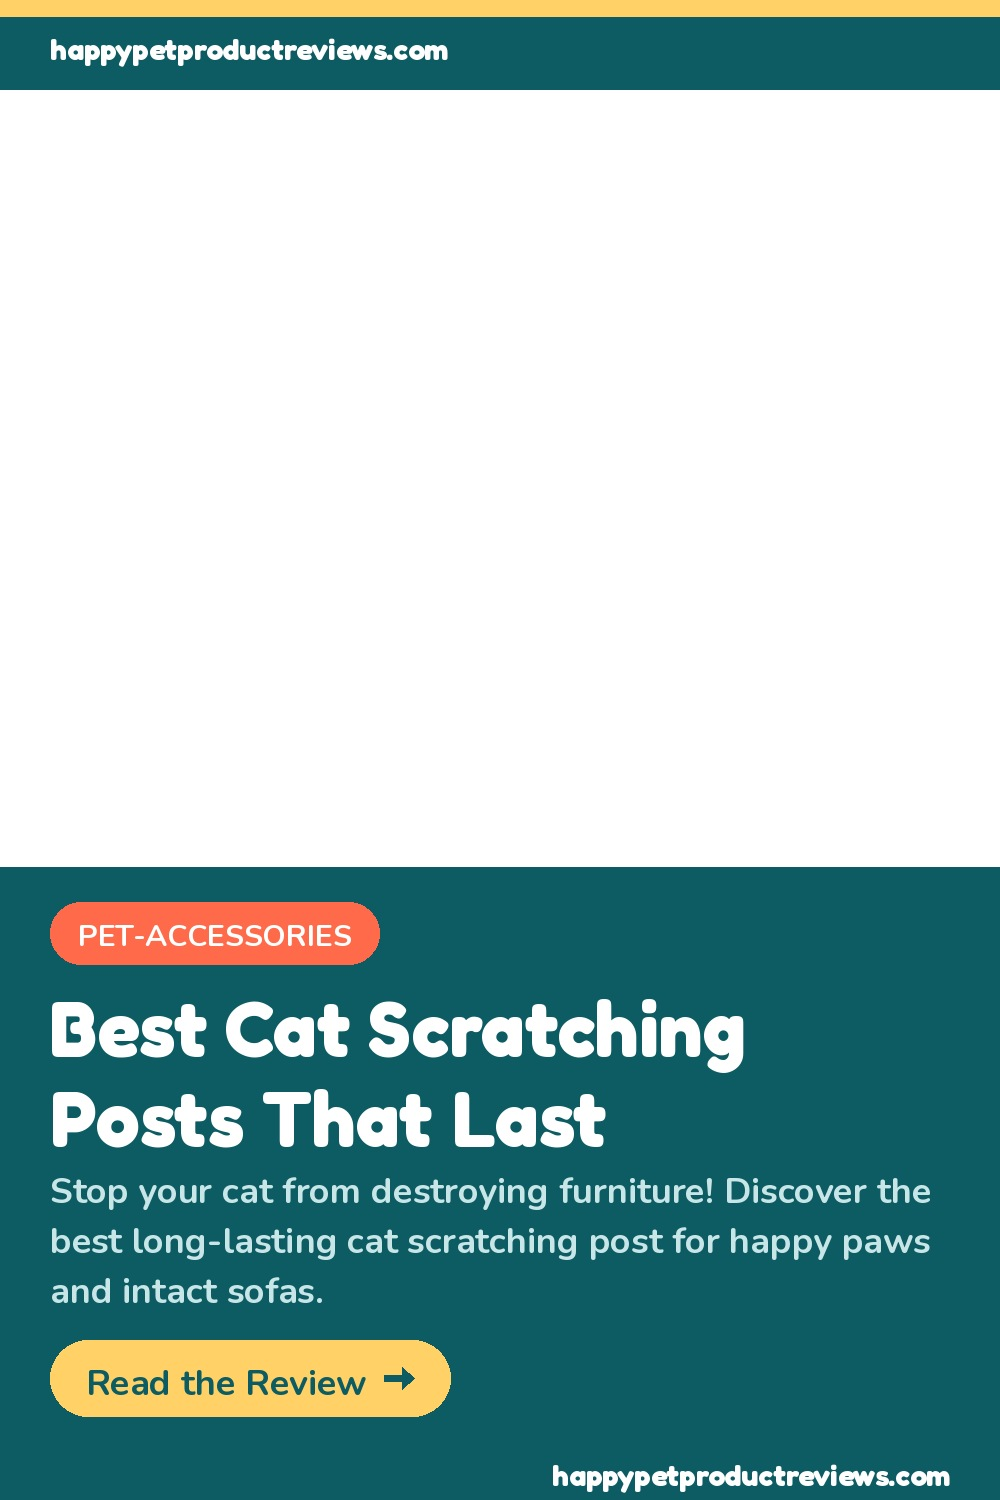
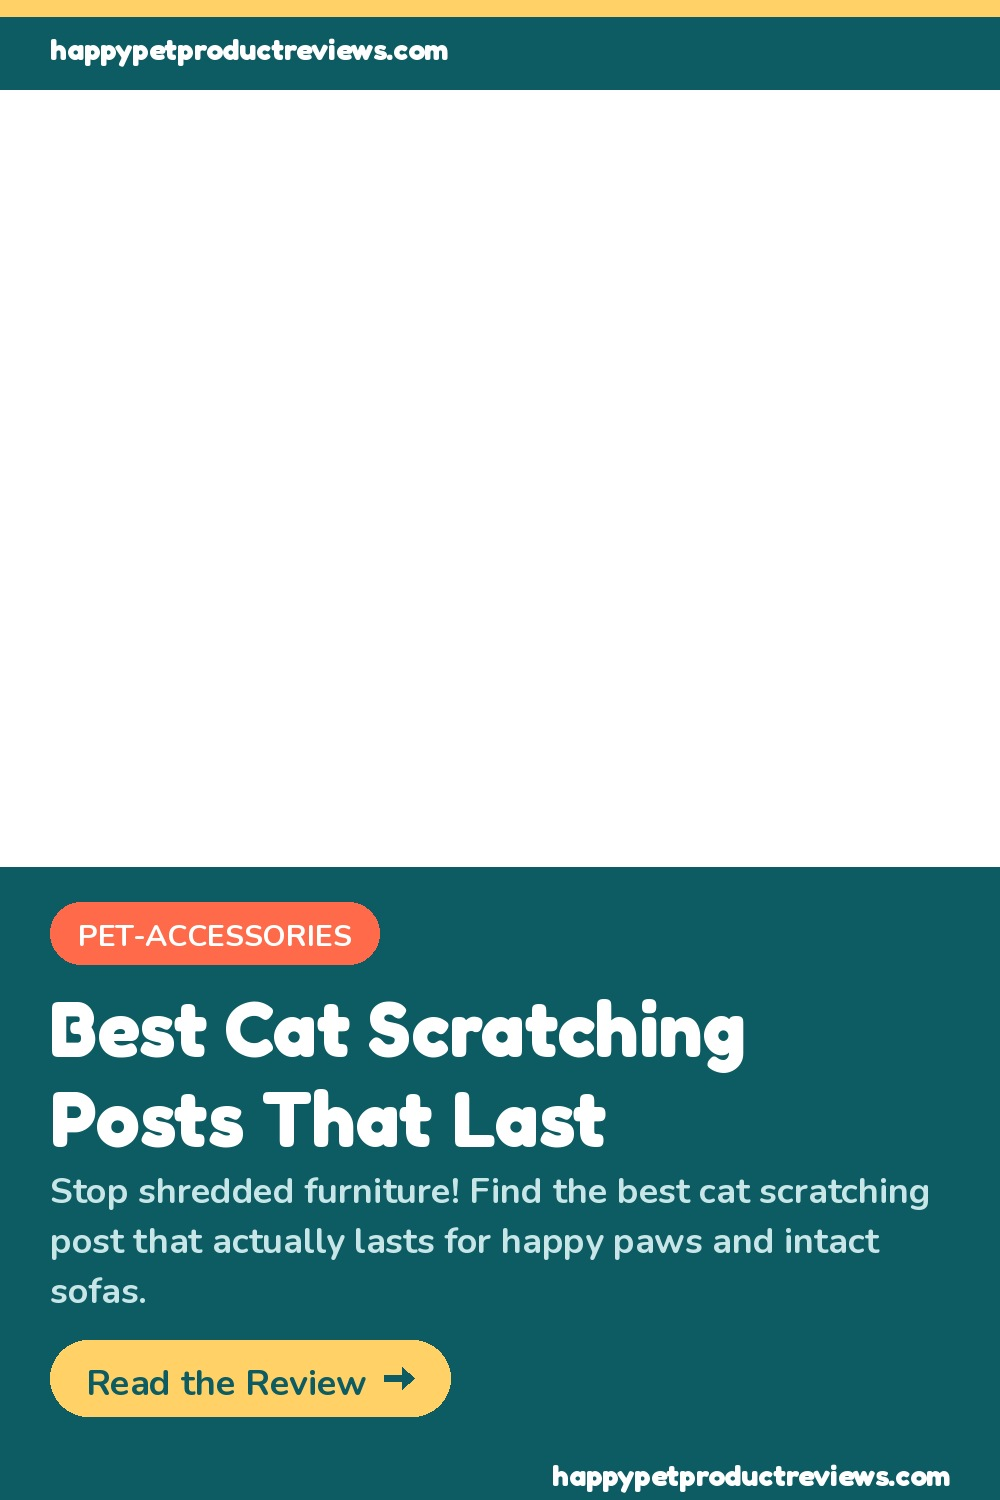
auto: add 1 articles 2026-04-06

Changed region(s): [[0.062, 0.7667, 0.93, 0.8893]]

diff --git a/_posts/2026-04-06-best-cat-scratching-posts.md b/_posts/2026-04-06-best-cat-scratching-posts.md
@@ -1,0 +1,69 @@
+---
+layout: post
+title: "Best Cat Scratching Posts That Last"
+date: 2026-04-06
+categories: [pet-accessories]
+species: cat
+tags: [cat scratching post]
+description: "Stop shredded furniture! Find the best cat scratching post that actually lasts for happy paws and intact sofas."
+affiliate_url: "https://amzn.to/4dME6wX"
+---
+
+
+# Best Cat Scratching Posts That Last
+
+We've all been there, haven't we? You come home, eager to relax, only to find another tell-tale shred mark on your favorite armchair. Or perhaps a fresh tear in the side of your brand-new couch. Your beloved feline friend, purring innocently, looks up at you as if to say, "What's the big deal?" The big deal, of course, is your increasingly tattered upholstery! You've tried everything – cardboard scratchers that disintegrate in a week, carpeted posts that they ignore, or flimsy towers that wobble precariously and send your cat scattering. It's frustrating, expensive, and leaves you wondering if your home is destined to become a feline-decorated disaster zone.
+
+As pet owners ourselves, we at Happy Pet Product Reviews understand this struggle deeply. We know that a good cat scratching post isn't just a luxury; it's an essential tool for your cat's health, happiness, and for preserving your sanity (and your furniture!). Cats need to scratch to shed old claw sheaths, mark their territory, and stretch their muscles. Providing an appropriate outlet is crucial. That's why we're constantly on the hunt for products that genuinely stand up to the test – especially when it comes to durability and effectiveness. After countless trials and endless research, we've found a true champion in the world of vertical scratchers: the [SmartCat Ultimate Scratching Post](https://amzn.to/4dME6wX). This isn't just another post; it's a long-term solution designed to keep both you and your cat purr-fectly content.
+
+## Product Overview: [SmartCat Ultimate Scratching Post](https://amzn.to/4dME6wX)
+
+The [SmartCat Ultimate Scratching Post](https://amzn.to/4dME6wX) is precisely what its name suggests: an ultimate solution for your cat's scratching needs. It's a robust, tall, and exceptionally stable vertical cat scratching post designed to mimic a tree trunk, which is what cats naturally prefer to scratch in the wild. Unlike many flimsy alternatives that barely reach a cat's shoulder, this post stands at an impressive 32 inches tall, allowing even the largest felines to get a full, satisfying stretch while they scratch.
+
+This product is ideal for virtually any cat owner, but it particularly shines for those with large breeds like Maine Coons or Ragdolls, or households with multiple energetic cats who can quickly decimate lesser scratchers. It's also a godsend for owners whose cats have developed a penchant for scratching furniture, as its natural sisal surface and sturdy design make it incredibly appealing. The post features a wide, heavy base measuring 16 x 16 inches, which ensures maximum stability, preventing any wobbling or tipping that might deter a cautious cat. The scratching surface itself is made from durable woven sisal, a natural fiber that offers a satisfying texture for claws and is significantly more resilient than carpet or wrapped rope. If you're tired of replacing cheap cat scratching posts every few months, the [SmartCat Ultimate Scratching Post](https://amzn.to/4dME6wX) is engineered to be a one-time investment that pays dividends for years.
+
+## What We Like
+
+We put the [SmartCat Ultimate Scratching Post](https://amzn.to/4dME6wX) through its paces with a variety of feline testers, from dainty domestic shorthairs to hefty Siberians, and consistently found several standout features that truly impressed us.
+
+*   **Unmatched Durability and Longevity:** This is where the [SmartCat Ultimate Scratching Post](https://amzn.to/4dME6wX) truly excels. The woven sisal material isn't just a gimmick; it's incredibly tough. Unlike posts wrapped with thin sisal rope that quickly unravels, this woven fabric stands up to relentless scratching, day after day, year after year. Our test cats, some of whom are notorious destroyers of other scratchers, barely made a dent in its surface even after months of use. We estimate this post will last many times longer than cheaper alternatives, saving you money and hassle in the long run.
+
+*   **Perfect Height for a Full Stretch:** At 32 inches tall, this cat scratching post allows cats of all sizes, especially larger breeds, to fully extend their bodies upwards as they scratch. This isn't just about comfort; it's a crucial aspect of feline health, allowing them to stretch their spine and shoulder muscles properly. Many smaller posts force cats into an awkward, hunched position, which isn't satisfying and can lead them back to your sofa. The generous height of the [SmartCat Ultimate Scratching Post](https://amzn.to/4dME6wX) encourages natural, healthy scratching behavior.
+
+*   **Exceptional Stability:** There's nothing worse than a wobbly scratcher that sends your cat running. The wide, heavy 16 x 16-inch base of the [SmartCat Ultimate Scratching Post](https://amzn.to/4dME6wX) means it stays firmly planted, no matter how vigorously your cat goes at it. This stability is key to building your cat's confidence in using the post. We observed even our most enthusiastic scratchers attacking it without a hint of movement, making it a safe and appealing option for every cat.
+
+*   **Incredibly Appealing to Cats:** From the moment we introduced the [SmartCat Ultimate Scratching Post](https://amzn.to/4dME6wX) to our test felines, it was an instant hit. The natural, textured sisal surface provides the ideal resistance and feel that cats instinctively seek. It's rough enough to allow them to really sink their claws in, providing that satisfying "rip" sound and sensation without being too harsh. We found that even cats who had previously ignored other scratching posts were drawn to this one, often choosing it over furniture within days.
+
+*   **Simple, Quick Assembly:** We appreciate products that don't require an engineering degree to put together. The [SmartCat Ultimate Scratching Post](https://amzn.to/4dME6wX) arrives in just a few pieces and can be assembled in minutes with minimal effort. It's a straightforward process that gets the post up and ready for action almost immediately, which is a big plus when you have an eager scratcher (or a destructive one!) waiting.
+
+## What Could Be Better
+
+While the [SmartCat Ultimate Scratching Post](https://amzn.to/4dME6wX) is an outstanding product, no item is without its minor considerations. Here are a few things we noted that could be improved or are worth considering before purchase.
+
+*   **Higher Initial Price Point:** Let's be honest, the [SmartCat Ultimate Scratching Post](https://amzn.to/4dME6wX) isn't the cheapest cat scratching post on the market. Its premium materials and robust construction come with a higher upfront cost compared to flimsy cardboard or basic carpeted posts. However, we firmly believe this is a classic case of "you get what you pay for." Considering its exceptional durability and longevity, it often works out to be far more cost-effective in the long run than repeatedly replacing cheaper, inferior scratchers. It's an investment, not just a purchase.
+
+*   **Functional Aesthetics:** The design of the [SmartCat Ultimate Scratching Post](https://amzn.to/4dME6wX) is primarily focused on function and durability. It features a neutral beige sisal and a sturdy wood-toned base, which is perfectly fine for many homes. However, it doesn't boast the sleek, modern, or designer aesthetic that some pet owners might be looking for to seamlessly blend with high-end decor. It's a workhorse, not a show pony, so if ultra-chic pet accessories are a top priority, you might find its look a bit utilitarian.
+
+*   **Significant Footprint:** While the wide, heavy base is a huge advantage for stability, it also means the [SmartCat Ultimate Scratching Post](https://amzn.to/4dME6wX) occupies a noticeable amount of floor space. The 16 x 16-inch base, combined with the height, means it's not a discreet item that can be tucked away easily in a tiny corner. For those living in very small apartments or with limited floor space, this might require a bit of strategic placement planning. However, given its effectiveness, we think it's a worthwhile trade-off for protecting your furniture.
+
+## Real Owner Experiences
+
+Beyond our own rigorous testing, we always like to delve into what real pet owners are saying, and the sentiment around the [SmartCat Ultimate Scratching Post](https://amzn.to/4dME6wX) is overwhelmingly positive. A common theme we hear is "My cat ignores every other scratcher but *this* one!" Many owners report that after years of trying various solutions, this post was the only one that truly redirected their cat's scratching habits away from furniture. People frequently praise its ability to withstand multiple cats and even very large, powerful scratchers without showing significant wear.
+
+Owners of destructive cats often describe it as a "furniture-saver" and "worth every penny," noting that the initial investment quickly pays for itself by preventing costly damage. The stability is a recurring highlight, with many saying their cats feel confident using it because it doesn't wobble or tip. There are also numerous anecdotes about cats immediately taking to the sisal, often preferring it over previously favored scratching spots. It’s clear that this cat scratching post has earned a reputation as a reliable, long-lasting solution that genuinely solves a frustrating problem for countless cat parents. And speaking of keeping a clean and happy home, many owners also pair durable scratchers like this with effective [cat litter for odor control](/pawpicks/pet-accessories/best-cat-litter-odor-control/) for a truly fresh environment.
+
+## Who Should Buy This
+
+The [SmartCat Ultimate Scratching Post](https://amzn.to/4dME6wX) is an excellent choice for a wide range of cat owners, but it's particularly well-suited for specific situations and feline personalities:
+
+*   **Owners of Destructive Scratchers:** If your cat has a habit of shredding furniture, carpets, or anything else they can get their claws into, this post is your best bet for redirecting that behavior.
+*   **Multi-Cat Households:** Its durability and appeal make it perfect for homes with several cats who all need a satisfying scratching outlet. It can withstand heavy use from multiple felines.
+*   **Owners of Large Cat Breeds:** Maine Coons, Ragdolls, Siberians, and other larger cats need a tall, sturdy post they can fully stretch on. This post delivers exactly that.
+*   **Anyone Tired of Replacing Scratchers:** If you're fed up with constantly buying flimsy, short-lived scratching posts, the long-term value and durability of the [SmartCat Ultimate Scratching Post](https://amzn.to/4dME6wX) will be a welcome relief.
+*   **Pet Parents Who Value Quality and Longevity:** While the initial cost is higher, those who prioritize a product that lasts for years and performs exceptionally well will find this a smart investment.
+
+## Verdict
+
+After extensive testing and considering countless owner experiences, we at Happy Pet Product Reviews can confidently say that the [SmartCat Ultimate Scratching Post](https://amzn.to/4dME6wX) stands head and shoulders above the competition. It's more than just a cat scratching post; it's a durable, feline-approved fortress designed to satisfy your cat's natural instincts while safeguarding your home. Yes, the initial investment is higher than some flimsier options, but its unparalleled longevity, robust construction, and universal appeal to cats make it an incredible value. For anyone struggling with furniture destruction, or simply wanting to provide their beloved feline with the absolute best scratching experience, this is the ultimate solution. We wholeheartedly recommend the [SmartCat Ultimate Scratching Post](https://amzn.to/4dME6wX) as a truly essential item for any cat household. It's an investment that will bring years of peace of mind and happy, healthy scratching for your furry friend.
+
+**Our Rating: 4.8/5**
